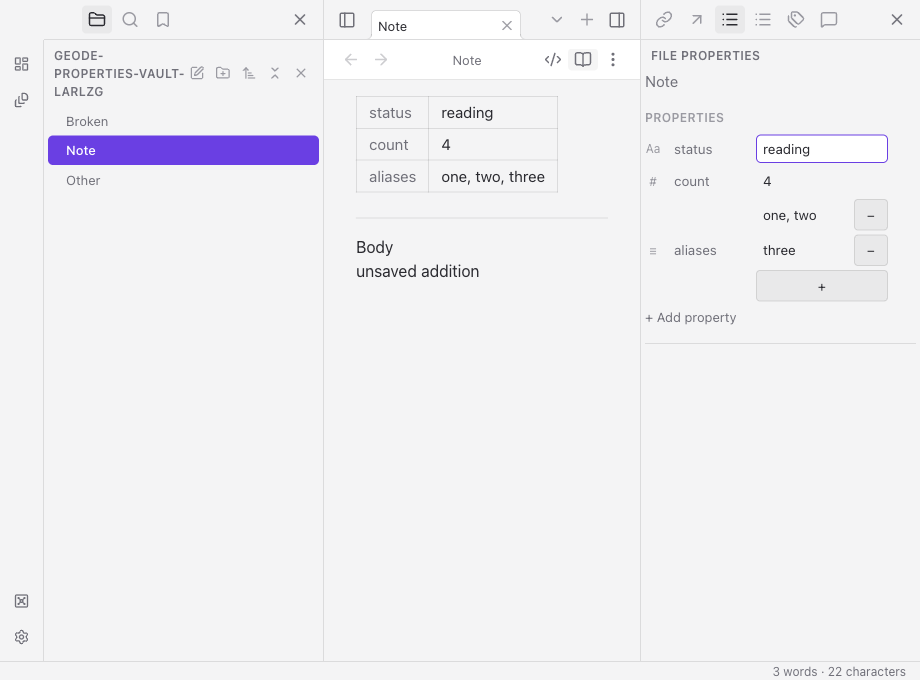
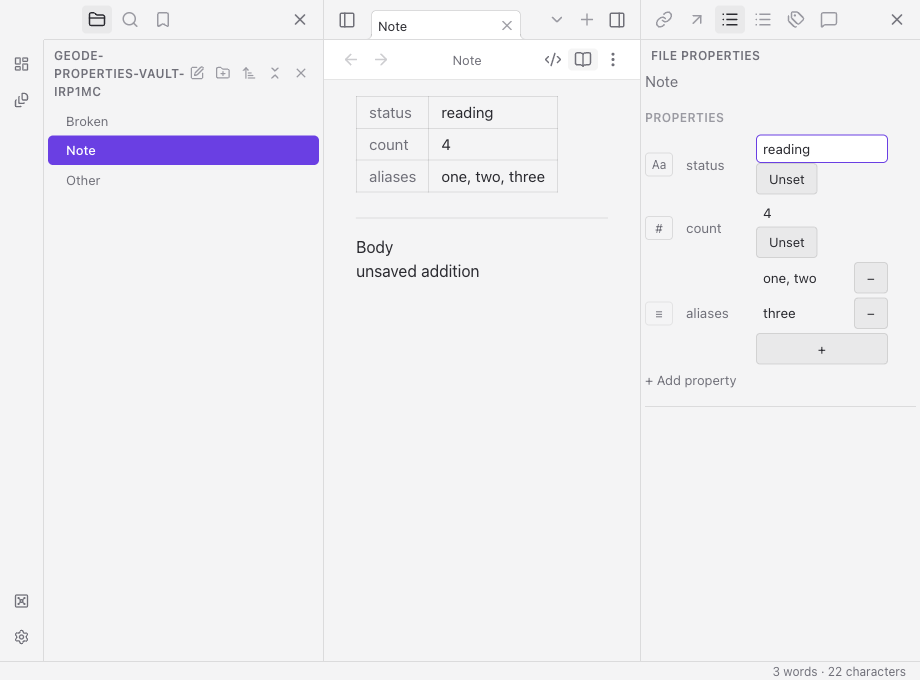
docs: capture complete shared property date controls

diff --git a/docs/screenshots/properties-p1/README.md b/docs/screenshots/properties-p1/README.md
@@ -1,9 +1,9 @@
-# Properties P1 visual evidence
+# Properties integration visual evidence
 
-Captured 2026-10-14 in local Electron on macOS against source commit `f8038cc`. All notes and values are synthetic. The associated test drives real controls and captures the actual app; these images were visually inspected for field alignment, focus, body preservation and overflow.
+Captured 2026-10-15 in local locked Electron on macOS against source commit `2bdee3f`, including the P2 shared type controls. All notes and values are synthetic. The associated test drives real controls and captures the actual app; these images were visually inspected for field alignment, focus, body preservation and overflow.
 
 - [Live Preview and file pane](live-preview.png): 1280 × 840 CSS pixels. Both surfaces share controls; commas remain within one list item and unsaved body text survives isolated property undo.
 - [Reading and file pane](desktop.png): 1280 × 840 CSS pixels. Reading immediately shows the buffer's updated `status: reading`, without waiting for the metadata index.
 - [Narrow window](narrow.png): 920 × 680 CSS pixels. Both sidebars remain open; property controls fit the right pane.
 
-`tests/e2e/file-properties.spec.ts` also verifies invalid-number retention/focus, dirty-input preservation across metadata events, duplicate-name/malformed YAML refusal, active-note switching, and read-only inspection of the checked-in demo vault copied to a temporary directory. Properties plus smoke: 5/5 pass with retries disabled; final expanded Properties: 2/2 pass with retries disabled. Full-suite results and independent review are tracked separately; these captures do not establish complete Properties parity.
+`tests/e2e/file-properties.spec.ts` also verifies invalid-number retention/focus, dirty-input preservation across metadata events, duplicate-name/malformed YAML refusal, active-note switching, and read-only inspection of the checked-in demo vault copied to a temporary directory. All four current P1/P2 flows passed with retries disabled. Full-suite results and independent review are tracked separately; these captures do not establish complete Properties parity.

diff --git a/docs/screenshots/property-types/README.md b/docs/screenshots/property-types/README.md
@@ -1,0 +1,19 @@
+# Shared property types visual evidence
+
+Captured 2026-10-15 in local locked Electron on macOS against source commit
+`2bdee3f`. The note, vault and values are synthetic. Both captures were visually
+inspected: the compact native type picker remains keyboard accessible, unset
+checkboxes remain distinct, and the complete local datetime including seconds
+fits in the roughly 280px file pane. Below a 450px property-container width, date
+fields stack beneath their keys so the same controls also fit a narrow note.
+
+- [Desktop](desktop.png): 1440 × 900 CSS pixels, shared Live Preview/file-pane types.
+- [Compact](compact.png): 960 × 760 CSS pixels, complete datetime visible in both surfaces.
+
+The actual Electron tests verify plugin/UI type agreement, local seconds, dirty
+body preservation, source-buffer undo, restart, retained future type/config fields
+and delayed storage rejection/rollback. All four P1/P2 flows passed without retries
+on this source. The prior source passed the same flows three times (12/12) after
+the test explicitly focused the body before undo; current captures include the
+subsequent compact layout correction. Full-suite and independent-review evidence
+remain separate; this is partial Properties parity.
